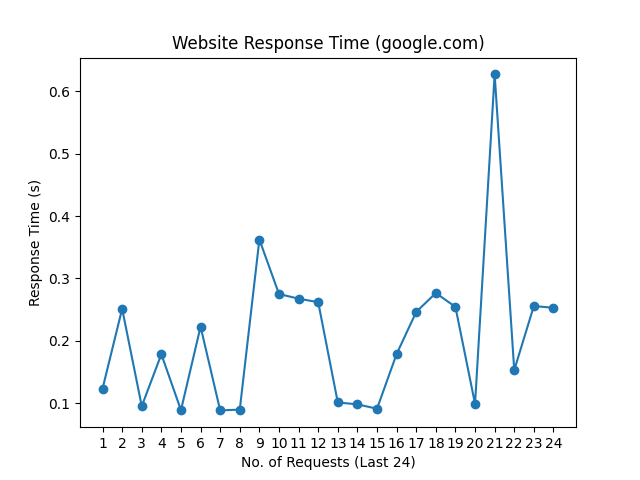
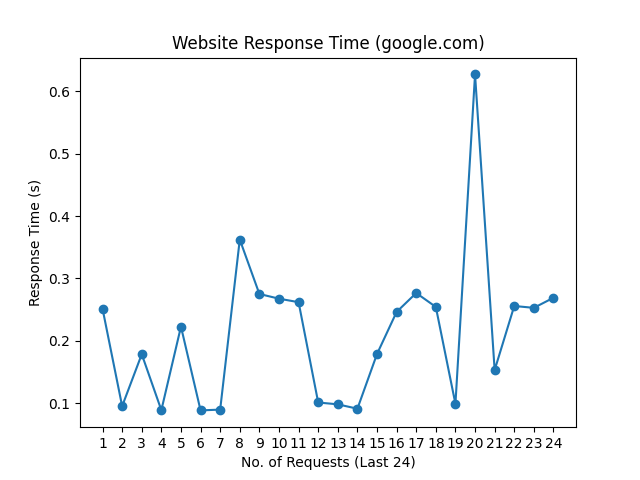
update README.md, history and graph

Changed region(s): [[0.1562, 0.125, 0.875, 0.875]]

diff --git a/README.md b/README.md
@@ -1,10 +1,10 @@
 # Web Monitoring
 
-Last Checked: 01/05/2024 09:06
+Last Checked: 02/05/2024 09:02
 
 | Website | Response Time (s) | Status | Avg Uptime (%) |
 |---------|-------------------|--------|----------------|
 | www.thiswebsiteisdown.net | 0 <br> <img src="graph/thiswebsiteisdown.net.png" alt="Graph" width="200" height="200">  | ❌ Down | 0.00 |
-| www.netflix.com | 0.561226 <br> <img src="graph/netflix.com.png" alt="Graph" width="200" height="200">  | ✅ Up | 100.00 |
-| www.google.com | 0.252855 <br> <img src="graph/google.com.png" alt="Graph" width="200" height="200">  | ✅ Up | 100.00 |
-| www.facebook.com | 0.386139 <br> <img src="graph/facebook.com.png" alt="Graph" width="200" height="200">  | ✅ Up | 100.00 |
+| www.netflix.com | 0.690861 <br> <img src="graph/netflix.com.png" alt="Graph" width="200" height="200">  | ✅ Up | 100.00 |
+| www.google.com | 0.269008 <br> <img src="graph/google.com.png" alt="Graph" width="200" height="200">  | ✅ Up | 100.00 |
+| www.facebook.com | 0.468171 <br> <img src="graph/facebook.com.png" alt="Graph" width="200" height="200">  | ✅ Up | 100.00 |
